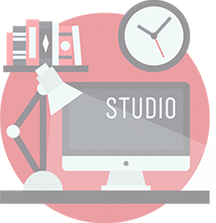
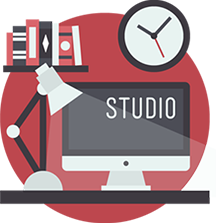
fix opacity, add default value

diff --git a/app/js/app.js b/app/js/app.js
@@ -106,21 +106,26 @@ var setOpacity = {
 		});
 	},
 	styleRange: function () {
+		var defaultVal = 52; 
+
 		this.slider.slider({
 			min: 0,
 			max: 100,
 			step: 1,
-			value: 80,
+			value: defaultVal,
 			orientation: 'horizontal',
 			create: function (e, ui) {
 				$(this)
 					.append(setOpacity.lower)
 					.find('.slider--lower')
 						.css({
-							width: ui.value + '%'
+							width: defaultVal + '%'
 						});
 
-				$('#opacity-value').attr('value', ui.value);
+				console.log(ui,e)
+
+				$('#opacity-value').attr('value', defaultVal);
+				setOpacity.changeOpacity(defaultVal);
 			},
 			slide: function(e, ui) {
 				$('.slider--lower').css({
